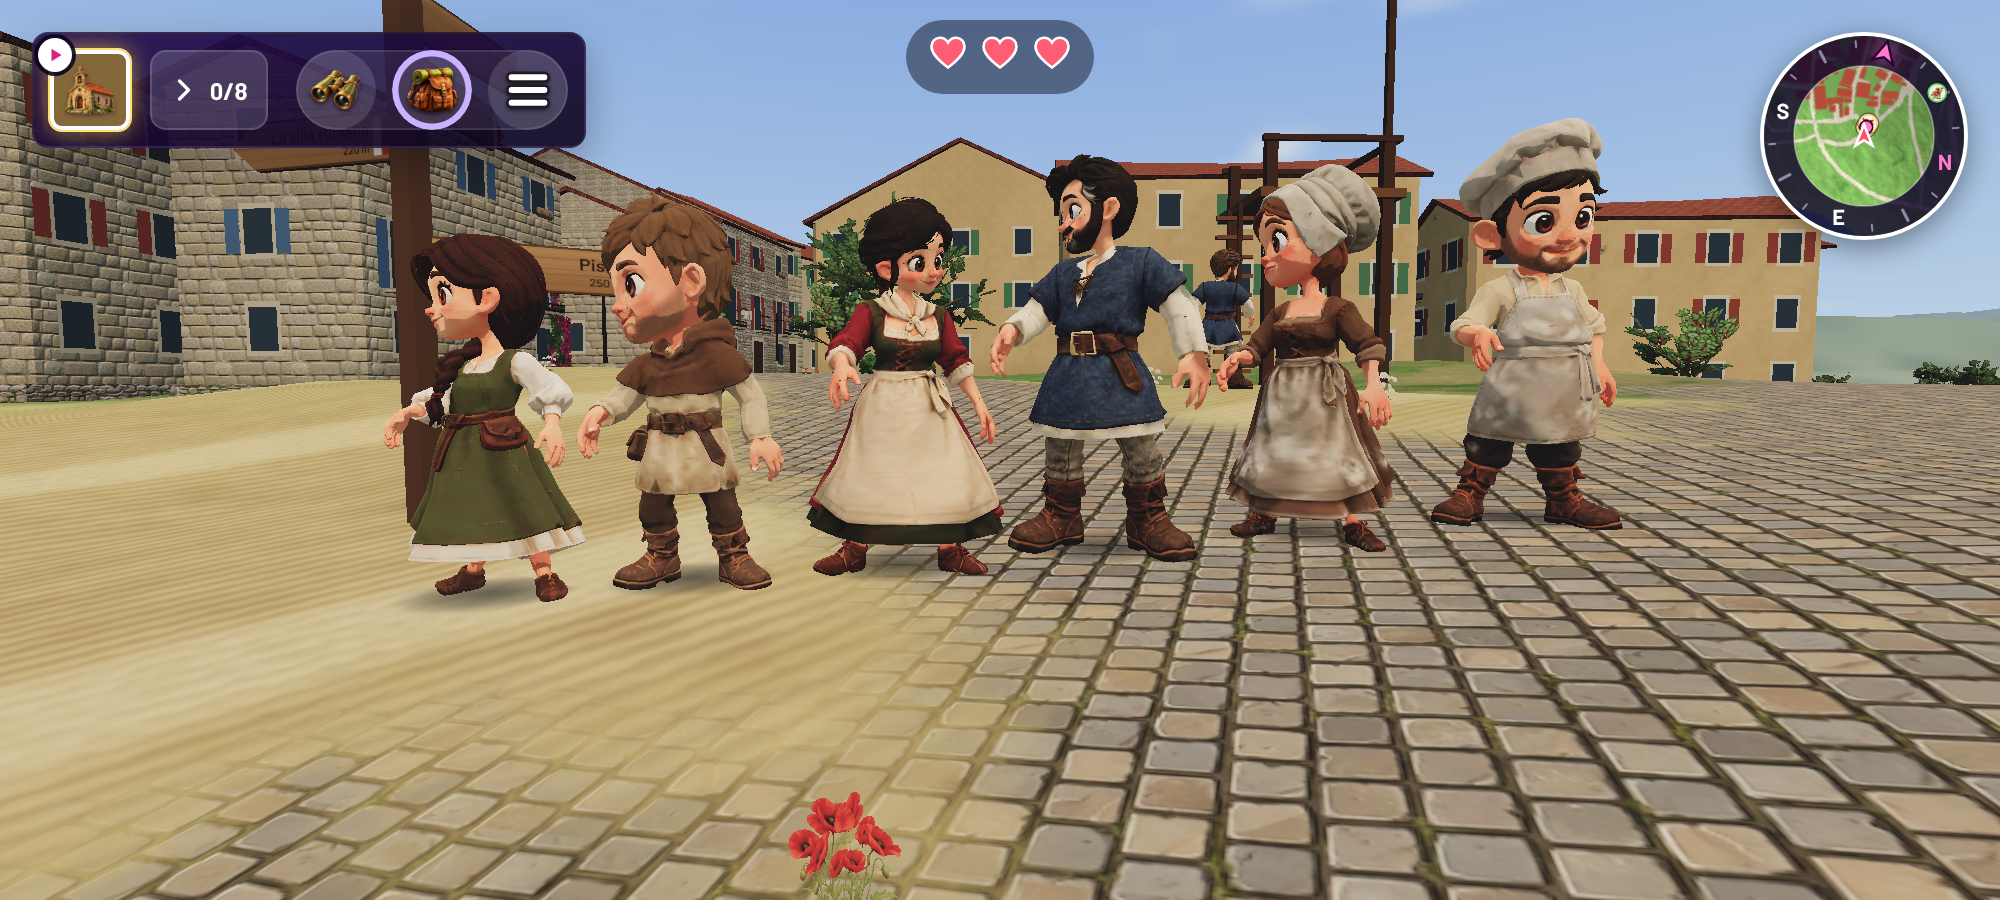
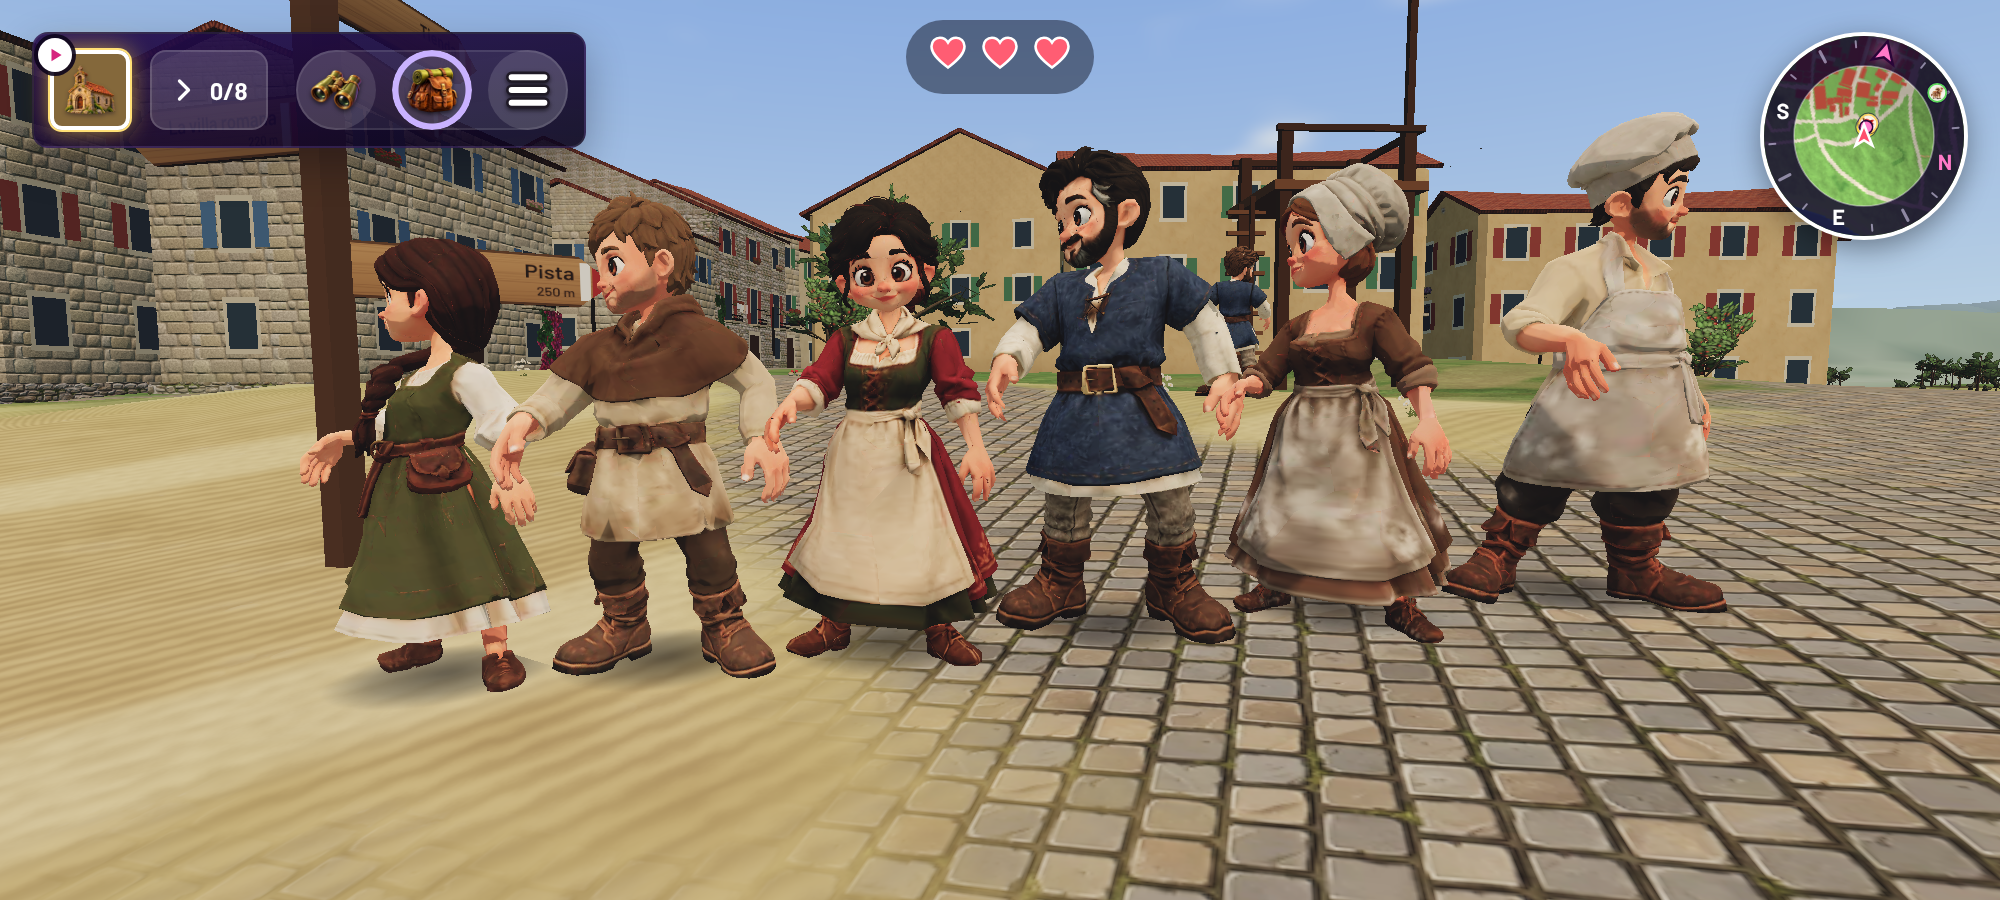
Vecinos: los seis nuevos, con las mismas proporciones que los demás adultos
Salían cabezones (3,1-4,2 cabezas de alto) al lado del hombre y la mujer.
Medidos y llevados a las 4,75 cabezas de todos los adultos del juego.

Claude-Session: https://claude.ai/code/session_01XAcbT8HKtqTvamTvNsQRgj

diff --git a/src/actors/glbChar.js b/src/actors/glbChar.js
@@ -259,7 +259,11 @@ const MESHY_H = { explorador: 1.45, exploradora: 1.43, sanfermin: 1.6, pastor: 1
 const PROPORCION = true;
 const SIN_GIRO_CABEZA = new Set(['zarratrako']);
 export const CABEZA = {
-  hombre: 0.61, carpintero: 0.71, quesero: 0.93, panadero: 0.78, mujer: 0.69, joven_rubia: 0.7, carpintera: 0.71, panadera: 0.93,
+  hombre: 0.61, carpintero: 0.71, mujer: 0.69, joven_rubia: 0.7, carpintera: 0.71,
+  // (los seis rehechos en Meshy el 18 de noviembre de 2026: salieron cabezones, de 3,1 a 4,2 cabezas, y al lado del hombre
+  // y la mujer se veía —el autor: «aquí se ve claramente la diferencia entre las proporciones»—. Medidos con
+  // tools/proporciones-personajes.mjs y llevados a las 4,75 cabezas de todos los adultos)
+  quesero: 0.61, quesera: 0.86, campesino: 0.57, campesina: 0.76, panadero: 0.57, panadera: 0.76,
   abuelo_bigote: 0.69, abuelo_barba: 0.63, abuelo: 0.64, abuela_trenzas: 0.69, abuela_mono: 0.73, abuela_panuelo: 0.69,
   nino_moreno: 0.82, nino_rubio: 0.8, nina_pelirroja: 0.82, nina_trenzas: 0.83,
   // (ni el pelotari ni el explorador y la exploradora: son el mismo personaje, el tuyo, y se quedan como son. El pelotari
@@ -407,7 +411,7 @@ export async function loadMeshy(name, lod = false, completo = false) {
     const g = await loadChar(lod ? MESHY_LOD[name] : completo ? VEC_FULL[name] : MESHY[name] || (import.meta.env.DEV ? `/src/assets/meshy/vecinos/${name}.glb` : MESHY_LOD[name]));
     // (las proporciones de todos, CABEZA: la cabeza a su tamaño; sin la escala de la cabeza que traen algunos clips, que
     // la devolvería a 1 en cada fotograma)
-    const kCab = PROPORCION && !REDISENO.has(name) ? CABEZA[name] || 1 : 1;
+    const kCab = PROPORCION ? CABEZA[name] || 1 : 1;
     if (kCab !== 1) { let head = null; g.scene.traverse(o => { if (!head && o.isBone && /Head$/.test(o.name)) head = o; });
       if (head) { head.scale.setScalar(kCab); head.userData.cabK = kCab; for (const a of g.animations) a.tracks = a.tracks.filter(t => !/Head\.scale$/.test(t.name)); } }
     // (el Zarratrako, con la cabeza quieta respecto al cuerpo: su cara va dentro de las cintas del gorro, que cuelgan del
